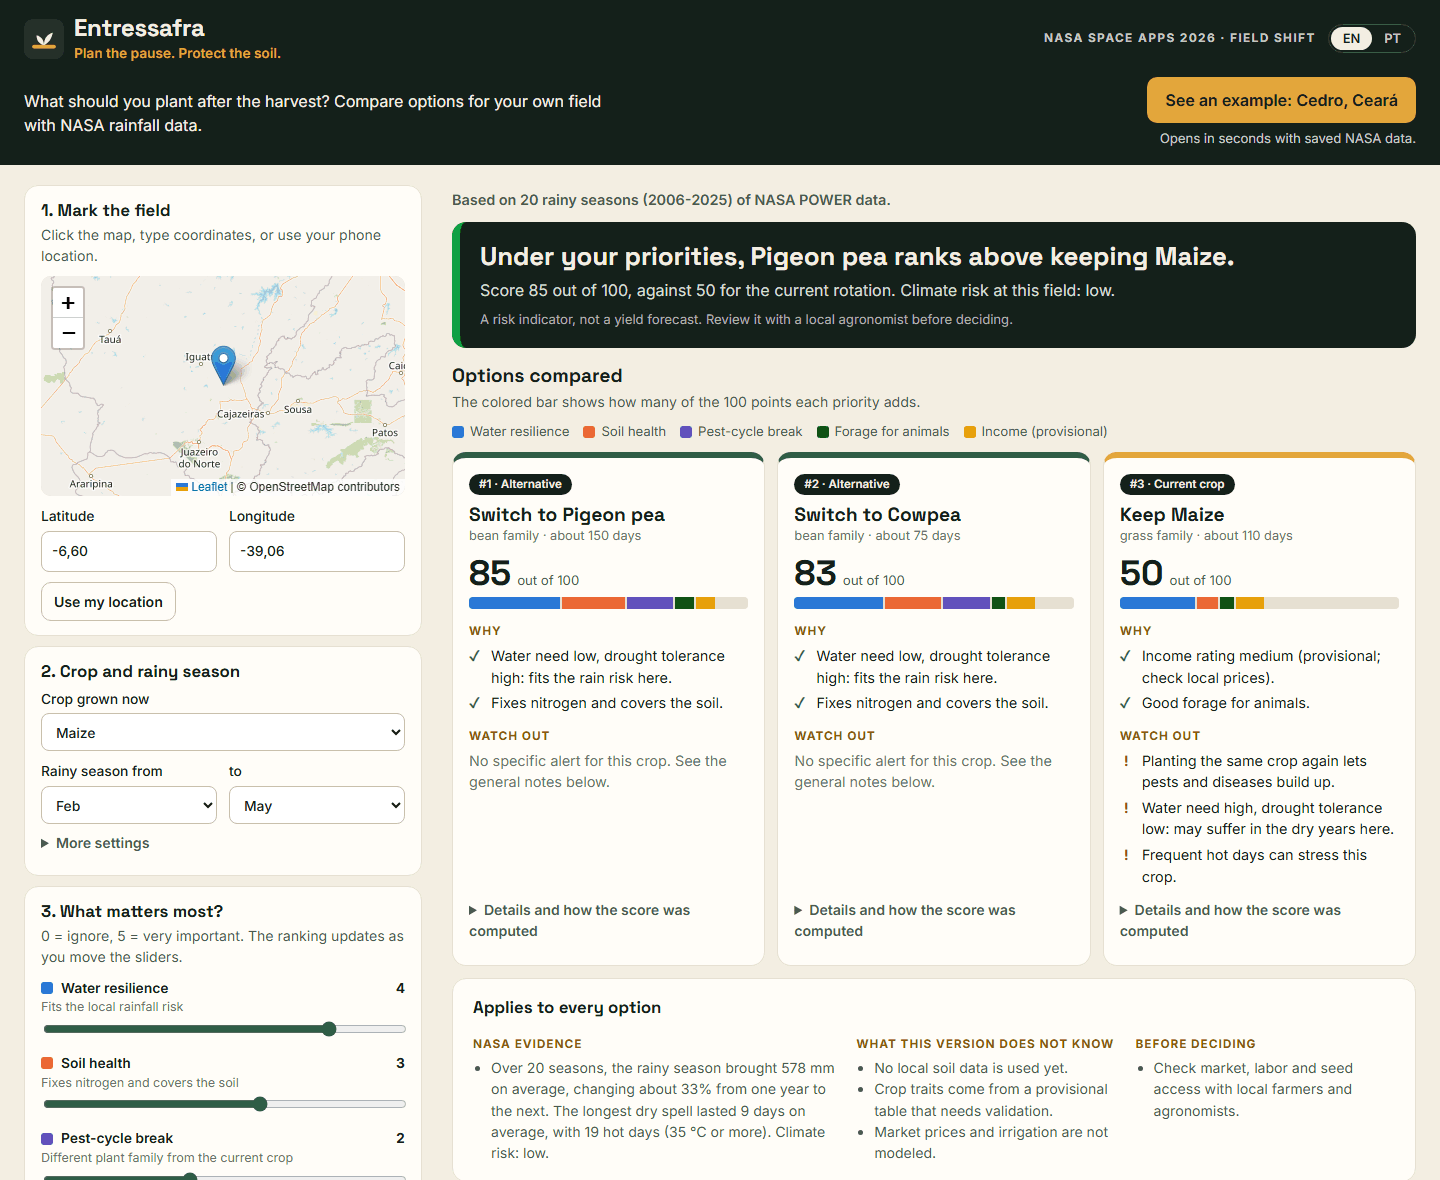
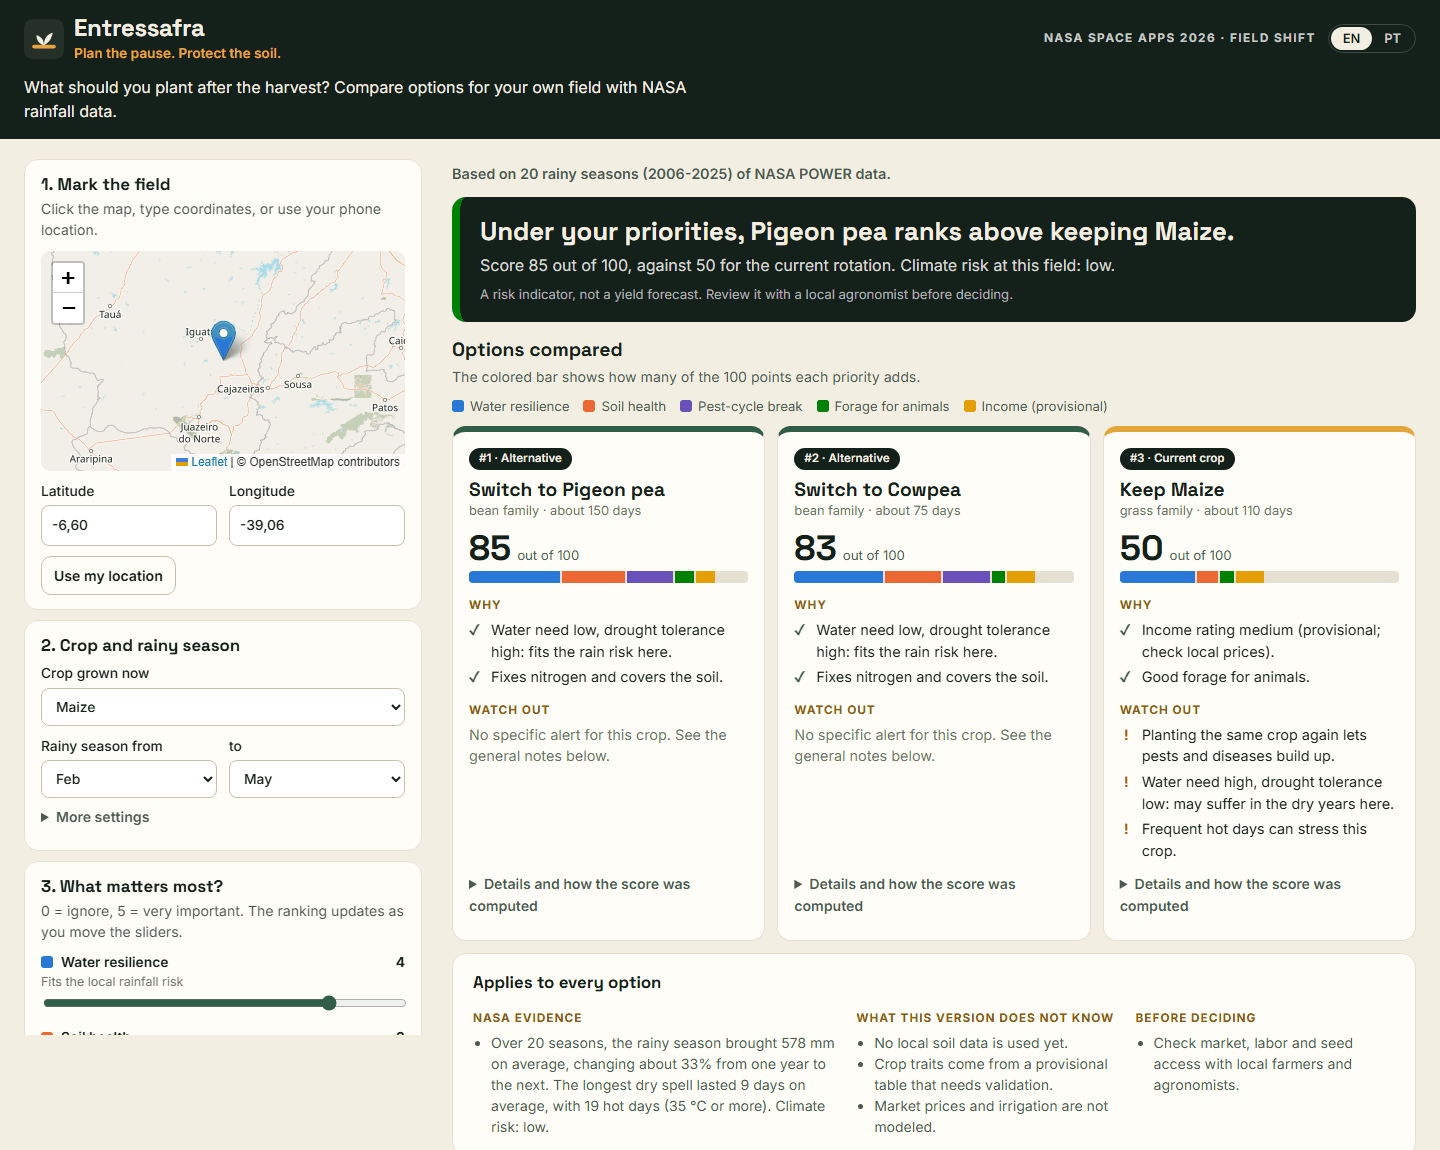
Remove the Cedro example button; keep saved Cedro data only as an API fallback

diff --git a/js/app.js b/js/app.js
@@ -77,29 +77,24 @@ function buildControls() {
 
 // ---------------------------------------------------------------- data + analysis
 
-async function loadData(form, { preferSnapshot = false } = {}) {
-  const useSnapshot = async () => {
+/**
+ * Fetches NASA POWER data live. If the API fails near Cedro, falls back to the saved
+ * NASA POWER response for Cedro, so a demo there never depends on the API being up.
+ */
+async function loadData(form) {
+  setStatus(t('status.fetching'), 'busy');
+  let fallbackReason = null;
+  try {
+    state.series = await fetchDaily(form);
+    state.source = { kind: 'live', lat: form.lat, lon: form.lon };
+  } catch (err) {
+    if (!isNearSnapshot(form.lat, form.lon)) throw err;
     state.series = await loadSnapshot({ startYear: form.startYear, endYear: Math.min(form.endYear, SNAPSHOT.endYear) });
     state.source = { kind: 'snapshot', name: SNAPSHOT.name, lat: SNAPSHOT.lat, lon: SNAPSHOT.lon };
-  };
-
-  if (preferSnapshot) {
-    setStatus(t('status.snapshot'), 'busy');
-    await useSnapshot();
-  } else {
-    setStatus(t('status.fetching'), 'busy');
-    try {
-      state.series = await fetchDaily(form);
-      state.source = { kind: 'live', lat: form.lat, lon: form.lon };
-    } catch (err) {
-      if (!isNearSnapshot(form.lat, form.lon)) throw err;
-      await useSnapshot();
-      state.dataKey = dataKeyOf(form);
-      return { fallbackReason: err.message };
-    }
+    fallbackReason = err.message;
   }
   state.dataKey = dataKeyOf(form);
-  return {};
+  return { fallbackReason };
 }
 
 /** Runs the whole analysis on the data in memory and draws it. Returns false if the data is too thin. */
@@ -148,16 +143,13 @@ function doneMessage() {
   return t('status.done', { years: years.length, from: years[0].year, to: years[years.length - 1].year });
 }
 
-async function compare({ preferSnapshot = false } = {}) {
+async function compare() {
   const form = readForm();
   if (!validCoords(form)) return setStatus(t('status.badCoords'), 'error');
   $('run').disabled = true;
-  $('example').disabled = true;
   try {
     let fallbackReason = null;
-    if (preferSnapshot || dataKeyOf(form) !== state.dataKey) {
-      ({ fallbackReason } = await loadData(form, { preferSnapshot }));
-    }
+    if (dataKeyOf(form) !== state.dataKey) ({ fallbackReason } = await loadData(form));
     if (!analyse(form)) return;
     setStatus(fallbackReason ? t('status.fallback', { reason: fallbackReason }) : doneMessage(), fallbackReason ? 'warn' : 'ok');
     revealResults();
@@ -165,18 +157,7 @@ async function compare({ preferSnapshot = false } = {}) {
     setStatus(`${t('status.error', { reason: err.message })} ${t('status.errorHint')}`, 'error');
   } finally {
     $('run').disabled = false;
-    $('example').disabled = false;
   }
-}
-
-/** Instant demo: Cedro, maize, February-May, 20 years, from the saved NASA response. */
-function showExample() {
-  setPoint(SNAPSHOT.lat, SNAPSHOT.lon);
-  $('current').value = DEFAULTS.crop;
-  $('startMonth').value = String(DEFAULTS.startMonth);
-  $('endMonth').value = String(DEFAULTS.endMonth);
-  $('years').value = String(DEFAULTS.years);
-  return compare({ preferSnapshot: true });
 }
 
 /** Crop, season or priority changed: re-rank at once using the data already loaded. */
@@ -282,7 +263,6 @@ async function init() {
   initMap();
 
   $('run').addEventListener('click', () => compare());
-  $('example').addEventListener('click', showExample);
   $('locate').addEventListener('click', locate);
   for (const b of document.querySelectorAll('[data-lang]')) b.addEventListener('click', () => switchLang(b.dataset.lang));
   for (const id of ['current', 'startMonth', 'endMonth']) $(id).addEventListener('change', onQuickChange);
@@ -301,9 +281,6 @@ async function init() {
     clearTimeout(resizeTimer);
     resizeTimer = setTimeout(() => state.result && renderCharts(state.result), 200);
   });
-
-  // A shareable link that opens straight on the worked example: ?example=cedro
-  if (new URLSearchParams(location.search).has('example')) showExample();
 }
 
 init();

diff --git a/js/i18n.js b/js/i18n.js
@@ -9,8 +9,6 @@ const TEXT = {
     'meta.title': 'Entressafra: crop-rotation planner for the fields between harvests',
     'brand.tagline': 'Plan the pause. Protect the soil.',
     'brand.lead': 'What should you plant after the harvest? Compare options for your own field with NASA rainfall data.',
-    'brand.example': 'See an example: Cedro, Ceará',
-    'brand.exampleHint': 'Opens in seconds with saved NASA data.',
     'brand.notice': 'Prototype for NASA Space Apps 2026 (Field Shift). It shows a climate risk indicator, not a yield forecast. It supports the judgment of farmers and agronomists and never replaces it. The crop table is provisional.',
 
     'intro.title': 'How it works',
@@ -55,13 +53,12 @@ const TEXT = {
     'priority.income.help': 'Rough rating; check local prices',
 
     'status.fetching': 'Fetching daily data from NASA POWER for this point. This can take up to a minute...',
-    'status.snapshot': 'Loading saved NASA POWER data for Cedro...',
     'status.done': 'Based on {years} rainy seasons ({from}-{to}) of NASA POWER data.',
     'status.updated': 'Ranking updated.',
     'status.stale': 'You changed the location or the period. Press "Compare rotation strategies" to fetch new NASA data.',
     'status.fallback': 'NASA POWER did not answer ({reason}). Showing the saved NASA POWER data for Cedro instead.',
     'status.error': 'Could not complete the analysis: {reason}',
-    'status.errorHint': 'Try again in a minute, or open the Cedro example, which uses saved data.',
+    'status.errorHint': 'NASA POWER may be busy. Try again in a minute.',
     'status.badCoords': 'Please enter valid coordinates.',
     'status.fewYears': 'Not enough complete rainy seasons in the data for this point (found {years}, need at least 3).',
     'status.noCrops': 'Could not load the crop table. Serve this folder over HTTP (see the README).',
@@ -195,8 +192,6 @@ const TEXT = {
     'meta.title': 'Entressafra: planejador de rotação de culturas para o período entre safras',
     'brand.tagline': 'Planeje a pausa. Proteja o solo.',
     'brand.lead': 'O que plantar depois da colheita? Compare opções para a sua área com dados de chuva da NASA.',
-    'brand.example': 'Ver um exemplo: Cedro, Ceará',
-    'brand.exampleHint': 'Abre em segundos com dados da NASA já salvos.',
     'brand.notice': 'Protótipo para o NASA Space Apps 2026 (Field Shift). Mostra um indicador de risco climático, não uma previsão de produtividade. Apoia o julgamento de agricultores e agrônomos e nunca o substitui. A tabela de culturas é provisória.',
 
     'intro.title': 'Como funciona',
@@ -241,13 +236,12 @@ const TEXT = {
     'priority.income.help': 'Nota aproximada; confira os preços locais',
 
     'status.fetching': 'Buscando dados diários da NASA POWER para este ponto. Pode levar até um minuto...',
-    'status.snapshot': 'Carregando os dados salvos da NASA POWER para Cedro...',
     'status.done': 'Baseado em {years} quadras chuvosas ({from}-{to}) de dados da NASA POWER.',
     'status.updated': 'Ranking atualizado.',
     'status.stale': 'Você mudou o local ou o período. Clique em "Comparar estratégias de rotação" para buscar novos dados da NASA.',
     'status.fallback': 'A NASA POWER não respondeu ({reason}). Mostrando os dados salvos da NASA POWER para Cedro.',
     'status.error': 'Não foi possível concluir a análise: {reason}',
-    'status.errorHint': 'Tente de novo em um minuto ou abra o exemplo de Cedro, que usa dados salvos.',
+    'status.errorHint': 'A NASA POWER pode estar ocupada. Tente de novo em um minuto.',
     'status.badCoords': 'Digite coordenadas válidas.',
     'status.fewYears': 'Não há quadras chuvosas completas suficientes para este ponto (encontradas {years}, mínimo 3).',
     'status.noCrops': 'Não foi possível carregar a tabela de culturas. Abra esta pasta por um servidor HTTP (veja o README).',

diff --git a/css/style.css b/css/style.css
@@ -71,10 +71,8 @@ p { margin: 0; }
 .tagline { color: var(--amber); font-size: .85rem; font-weight: 600; }
 .event { display: none; color: #c4cdc6; font-size: .74rem; font-weight: 700; letter-spacing: .12em; text-transform: uppercase; }
 
-.pitch-row { display: flex; flex-direction: column; gap: 12px; margin-top: 14px; }
-.lead { font-size: 1rem; max-width: 60ch; }
-.pitch-action { display: flex; flex-wrap: wrap; align-items: center; gap: 6px 12px; }
-.pitch-hint { color: #c4cdc6; font-size: .82rem; }
+.pitch-row { margin-top: 12px; }
+.lead { font-size: 1rem; max-width: 70ch; }
 
 .lang { display: inline-flex; flex: none; border: 1px solid #3d4c43; border-radius: 999px; padding: 2px; }
 .lang button { background: none; color: #c4cdc6; border: 0; border-radius: 999px; padding: 4px 12px; font: 600 .8rem var(--font); cursor: pointer; }
@@ -86,9 +84,8 @@ button { font: inherit; cursor: pointer; }
 button:disabled { opacity: .6; cursor: progress; }
 :focus-visible { outline: 3px solid var(--amber); outline-offset: 2px; }
 
-.btn-primary, .btn-accent, .btn-ghost { border-radius: 10px; padding: 11px 18px; font-weight: 600; border: 0; }
+.btn-primary, .btn-ghost { border-radius: 10px; padding: 11px 18px; font-weight: 600; border: 0; }
 .btn-primary { background: var(--ink); color: var(--bone); width: 100%; font-size: 1rem; }
-.btn-accent { background: var(--amber); color: var(--ink); }
 .btn-ghost { background: transparent; color: var(--ink); border: 1px solid var(--line-strong); padding: 8px 12px; font-size: .88rem; }
 
 .row { display: flex; flex-wrap: wrap; gap: 10px 12px; align-items: flex-end; margin-top: 10px; }
@@ -253,8 +250,6 @@ footer .notice { max-width: 90ch; margin-bottom: 8px; }
 @media (min-width: 640px) {
   .wrap { padding: 0 24px; }
   .panel { padding: 18px 20px; }
-  .pitch-row { flex-direction: row; align-items: center; justify-content: space-between; gap: 24px; }
-  .pitch-action { flex-direction: column; align-items: flex-end; flex: none; }
   .btn-primary { width: auto; }
   #map { height: 280px; }
 }

diff --git a/index.html b/index.html
@@ -16,7 +16,7 @@
   <link rel="stylesheet" href="css/style.css">
 </head>
 <body>
-  <!-- Compact header: name, one-line pitch, the instant example and the language switch. -->
+  <!-- Compact header: name, one-line pitch and the language switch. -->
   <header class="topbar">
     <div class="wrap topbar-row">
       <div class="brand">
@@ -38,10 +38,6 @@
     </div>
     <div class="wrap pitch-row">
       <p class="lead" data-i18n="brand.lead"></p>
-      <div class="pitch-action">
-        <button id="example" type="button" class="btn-accent" data-i18n="brand.example"></button>
-        <span class="pitch-hint" data-i18n="brand.exampleHint"></span>
-      </div>
     </div>
   </header>
 

diff --git a/README.md b/README.md
@@ -5,19 +5,18 @@
 Entressafra (Portuguese for the interval between one harvest and the next planting) is a decision-support web tool that helps farmers compare crop-rotation strategies using NASA Earth observation data. It was built for the **NASA Space Apps Challenge 2026, challenge "Field Shift"**, which asks teams to help farms adapt using NASA data. Our answer focuses on one decision that farmers in the Brazilian semi-arid make every year: what to plant after the harvest, when the rain is short and unpredictable.
 
 - **Live demo:** https://teogenes18.github.io/entressafra/
-- **Worked example, opens in seconds:** https://teogenes18.github.io/entressafra/?example=cedro
 - **Demo slides:** **[add the public link here]**
 
 | Desktop: controls stay on the left, results update on the right | Phone (Portuguese) |
 |---|---|
-| ![Entressafra on a desktop screen, Cedro example](docs/screenshots/desktop.png) | ![Entressafra on a phone, in Portuguese](docs/screenshots/phone.png) |
+| ![Entressafra on a desktop screen, Cedro, Ceará](docs/screenshots/desktop.png) | ![Entressafra on a phone, in Portuguese](docs/screenshots/phone.png) |
 
 ## Try it in 60 seconds
 
-1. Open the live demo and press **"See an example: Cedro, Ceará"**. It loads 20 rainy seasons of saved NASA POWER data for Cedro, in the Brazilian semi-arid.
+1. Open the live demo and press **"Compare rotation strategies"**. The map starts at Cedro, Ceará, in the Brazilian semi-arid, and the tool fetches 20 rainy seasons of NASA POWER data for that point.
 2. Read the one-line verdict, then the climate panel: in the same field, the wettest season had **about 3 times** the rain of the driest.
 3. Move the **"What matters most?"** sliders. The ranking updates instantly, and each card shows exactly how many points each priority added.
-4. Click anywhere else on the map and press **Compare**: the tool fetches live NASA POWER data for that point.
+4. Click anywhere else on the map and press **Compare** again: the tool fetches NASA POWER data for the new point.
 5. Switch **EN / PT** at the top: the tool speaks Portuguese for the farmers it was built for.
 
 ## The problem
@@ -57,7 +56,7 @@ The code uses **one** NASA data source:
 |---|---|---|---|
 | **NASA POWER** (Prediction Of Worldwide Energy Resources), Daily API, point query, Agroclimatology (AG) community | `PRECTOTCORR` (precipitation corrected, mm/day) and `T2M_MAX` (maximum air temperature at 2 m, °C) | Season rainfall, year-to-year variation, dry spells, hot days, monthly rainfall, entressafra window | [Project](https://power.larc.nasa.gov/) · [Daily API docs](https://power.larc.nasa.gov/docs/services/api/temporal/daily/) |
 
-The tool works for **any point on Earth**: when the user presses "Compare", it queries the NASA POWER API live for that point (no API key needed). One NASA POWER response, for Cedro, Ceará (1996-2025), is also saved unchanged in [data/nasa-power-cedro-1996-2025.json](data/nasa-power-cedro-1996-2025.json). It is used only by the "See an example" button and as a fallback near Cedro if the API does not answer. The page always says which source it used. Details: [docs/data-sources.md](docs/data-sources.md).
+The tool works for **any point on Earth**: when the user presses "Compare", it queries the NASA POWER API live for that point (no API key needed). One NASA POWER response, for Cedro, Ceará (1996-2025), is also saved unchanged in [data/nasa-power-cedro-1996-2025.json](data/nasa-power-cedro-1996-2025.json). It is used only as a fallback near Cedro, if the API does not answer. The page always says which source it used. Details: [docs/data-sources.md](docs/data-sources.md).
 
 No other NASA dataset is used in this version (SMAP, GPM, MODIS and Landsat are listed under "Next steps" only).
 

diff --git a/docs/data-sources.md b/docs/data-sources.md
@@ -21,10 +21,7 @@ https://power.larc.nasa.gov/api/temporal/daily/point?parameters=PRECTOTCORR,T2M_
 
 `data/nasa-power-cedro-1996-2025.json` is the response to the request above, saved unchanged on 2026-11-14 (POWER API v2.10.3; sources MERRA-2 and POWER). It has 10,958 days and no missing values.
 
-It is used in two cases:
-
-1. The **"See an example: Cedro, Ceará"** button, so the demo opens in seconds.
-2. As a **fallback** when the live API does not answer and the chosen point is within 0.25° of Cedro.
+It is used only as a **fallback**: when the live API does not answer and the chosen point is within 0.25° of Cedro, the app uses this saved response instead.
 
 The page always says which source it used. The API response time varied from about 2 s to 17 s while the tool was being built, which is why the fallback exists.
 
